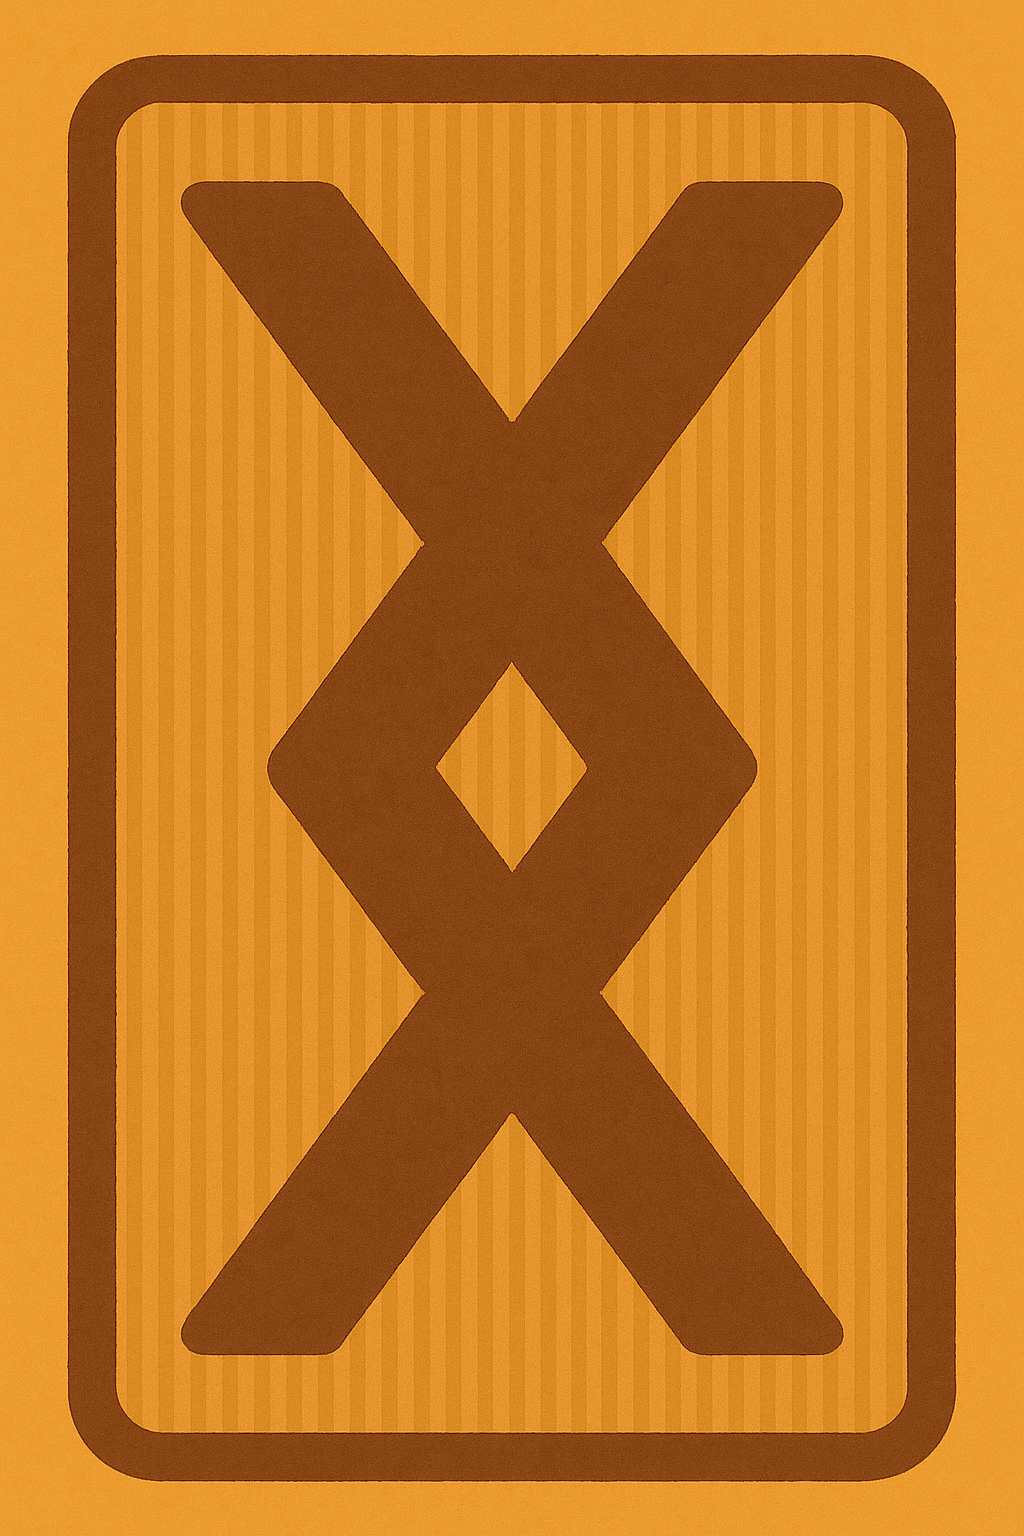
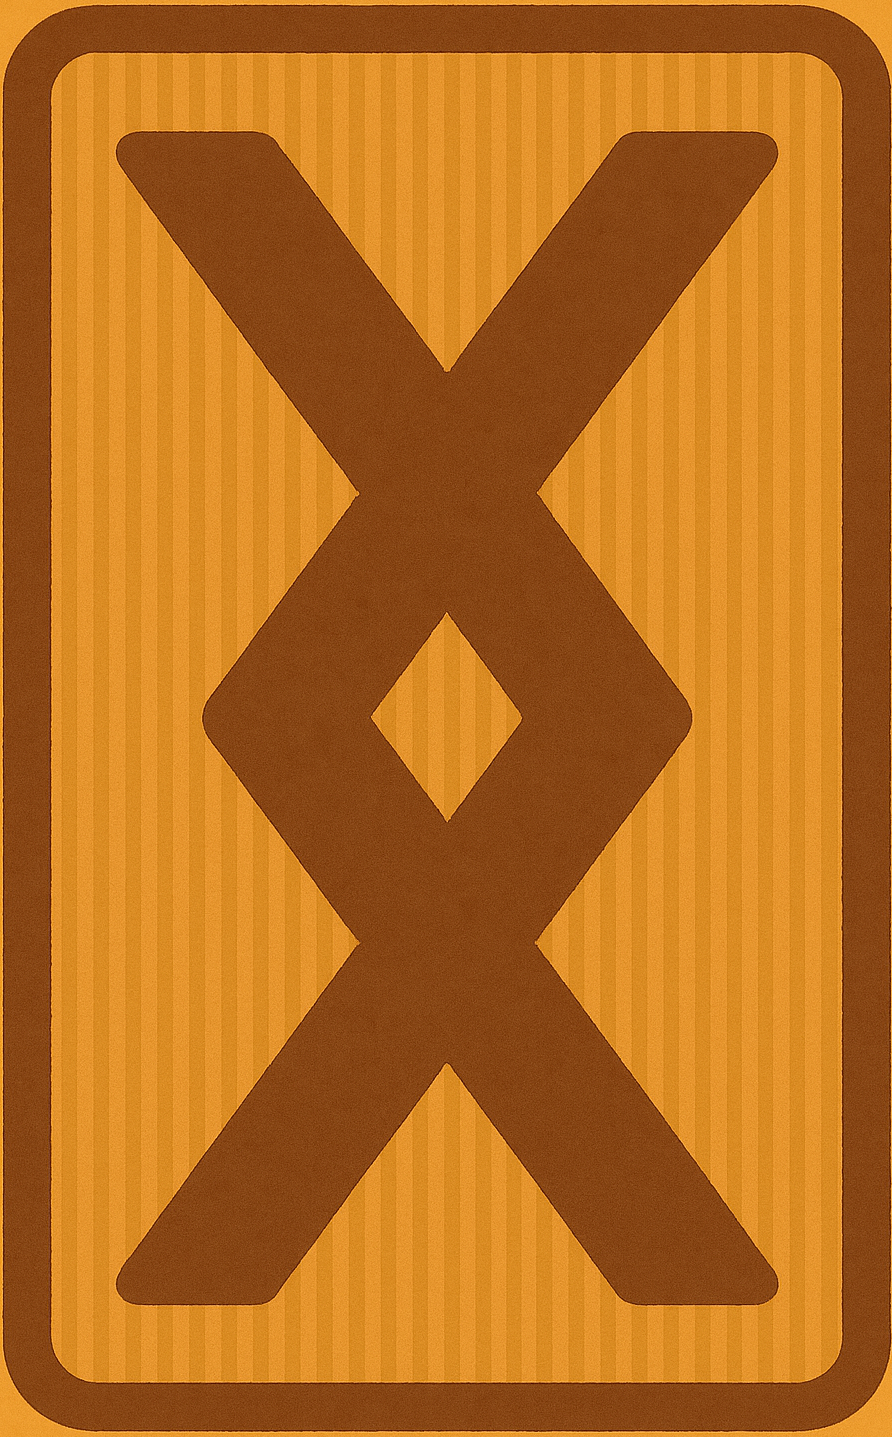
remove background bot hand

diff --git a/internal/ui/ui_bot_hand.go b/internal/ui/ui_bot_hand.go
@@ -6,7 +6,6 @@ import (
 
 	"github.com/hajimehoshi/ebiten/v2"
 	"github.com/hajimehoshi/ebiten/v2/text"
-	"github.com/hajimehoshi/ebiten/v2/vector"
 	"github.com/thanhfphan/ebitengj2025/internal/view"
 	"golang.org/x/image/font"
 )
@@ -55,9 +54,6 @@ func (h *UIBotHand) Draw(screen *ebiten.Image) {
 	op.GeoM.Translate(float64(h.X), float64(h.Y))
 
 	screen.DrawImage(cardImg, op)
-
-	borderColor := color.RGBA{255, 255, 255, 255} // White border
-	vector.StrokeRect(screen, float32(h.X), float32(h.Y), float32(h.Width), float32(h.Height), 1, borderColor, false)
 
 	if h.CardCount > 0 {
 		countText := fmt.Sprintf("%d", h.CardCount)
